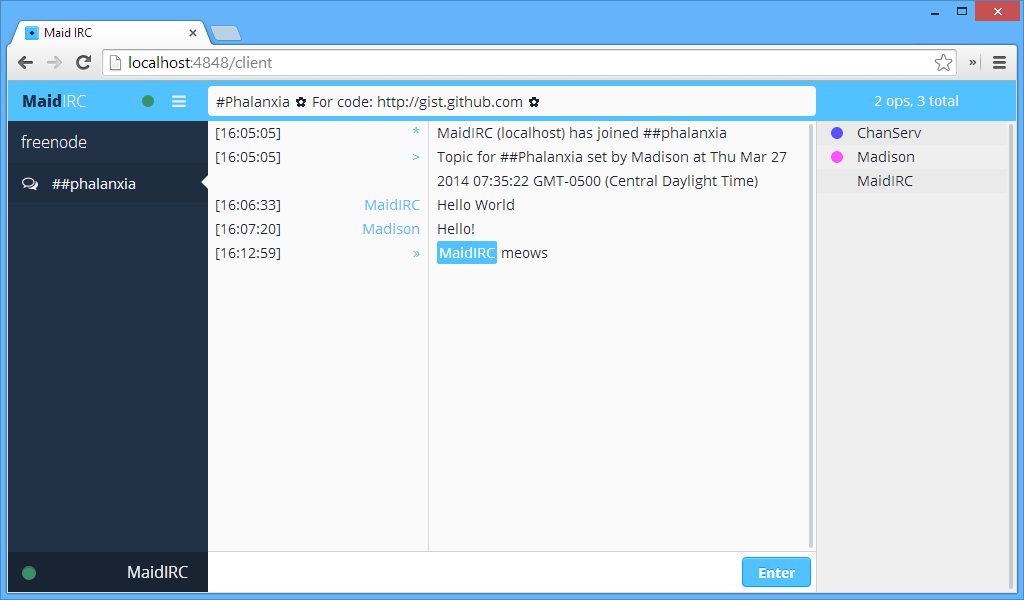
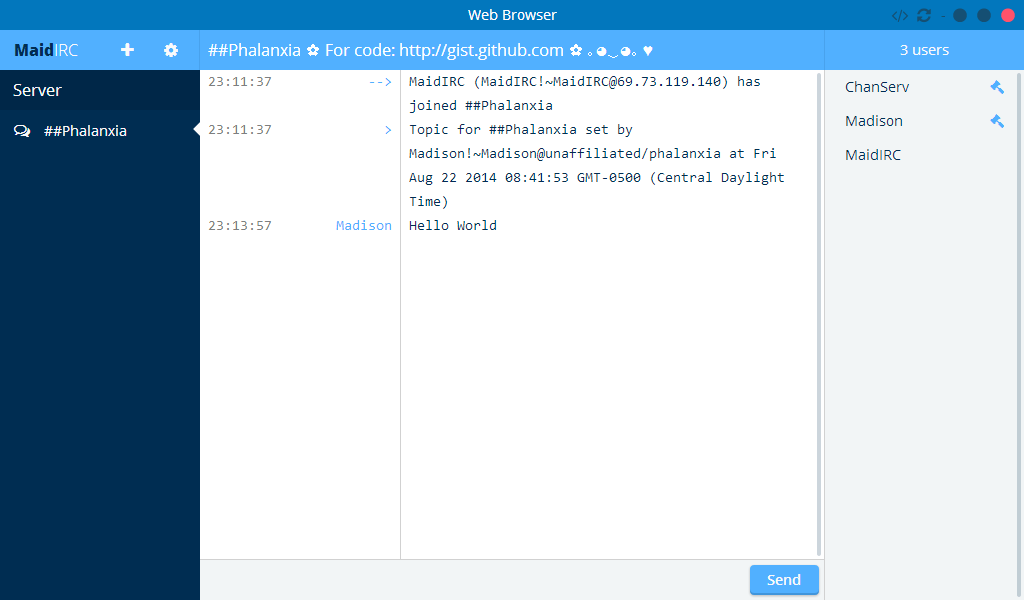
Updated README, updated screenshot of client

diff --git a/README.md b/README.md
@@ -29,7 +29,6 @@ $ node maid.js
 
 ![Connect](screenshots/login.png)
 
-Old Screenshot:
 ![Client](screenshots/client.png)
 
 ## Community
@@ -43,23 +42,4 @@ Need support? Want to chat? Join our channel on the Freenode IRC network.
 
 ## Copyright and license
 
-The MIT License (MIT)
-
-Copyright (c) 2015 Madison Tries
-
-Permission is hereby granted, free of charge, to any person obtaining a copy of
-this software and associated documentation files (the "Software"), to deal in
-the Software without restriction, including without limitation the rights to
-use, copy, modify, merge, publish, distribute, sublicense, and/or sell copies of
-the Software, and to permit persons to whom the Software is furnished to do so,
-subject to the following conditions:
-
-The above copyright notice and this permission notice shall be included in all
-copies or substantial portions of the Software.
-
-THE SOFTWARE IS PROVIDED "AS IS", WITHOUT WARRANTY OF ANY KIND, EXPRESS OR
-IMPLIED, INCLUDING BUT NOT LIMITED TO THE WARRANTIES OF MERCHANTABILITY, FITNESS
-FOR A PARTICULAR PURPOSE AND NONINFRINGEMENT. IN NO EVENT SHALL THE AUTHORS OR
-COPYRIGHT HOLDERS BE LIABLE FOR ANY CLAIM, DAMAGES OR OTHER LIABILITY, WHETHER
-IN AN ACTION OF CONTRACT, TORT OR OTHERWISE, ARISING FROM, OUT OF OR IN
-CONNECTION WITH THE SOFTWARE OR THE USE OR OTHER DEALINGS IN THE SOFTWARE.
+[MIT License](LICENSE)
